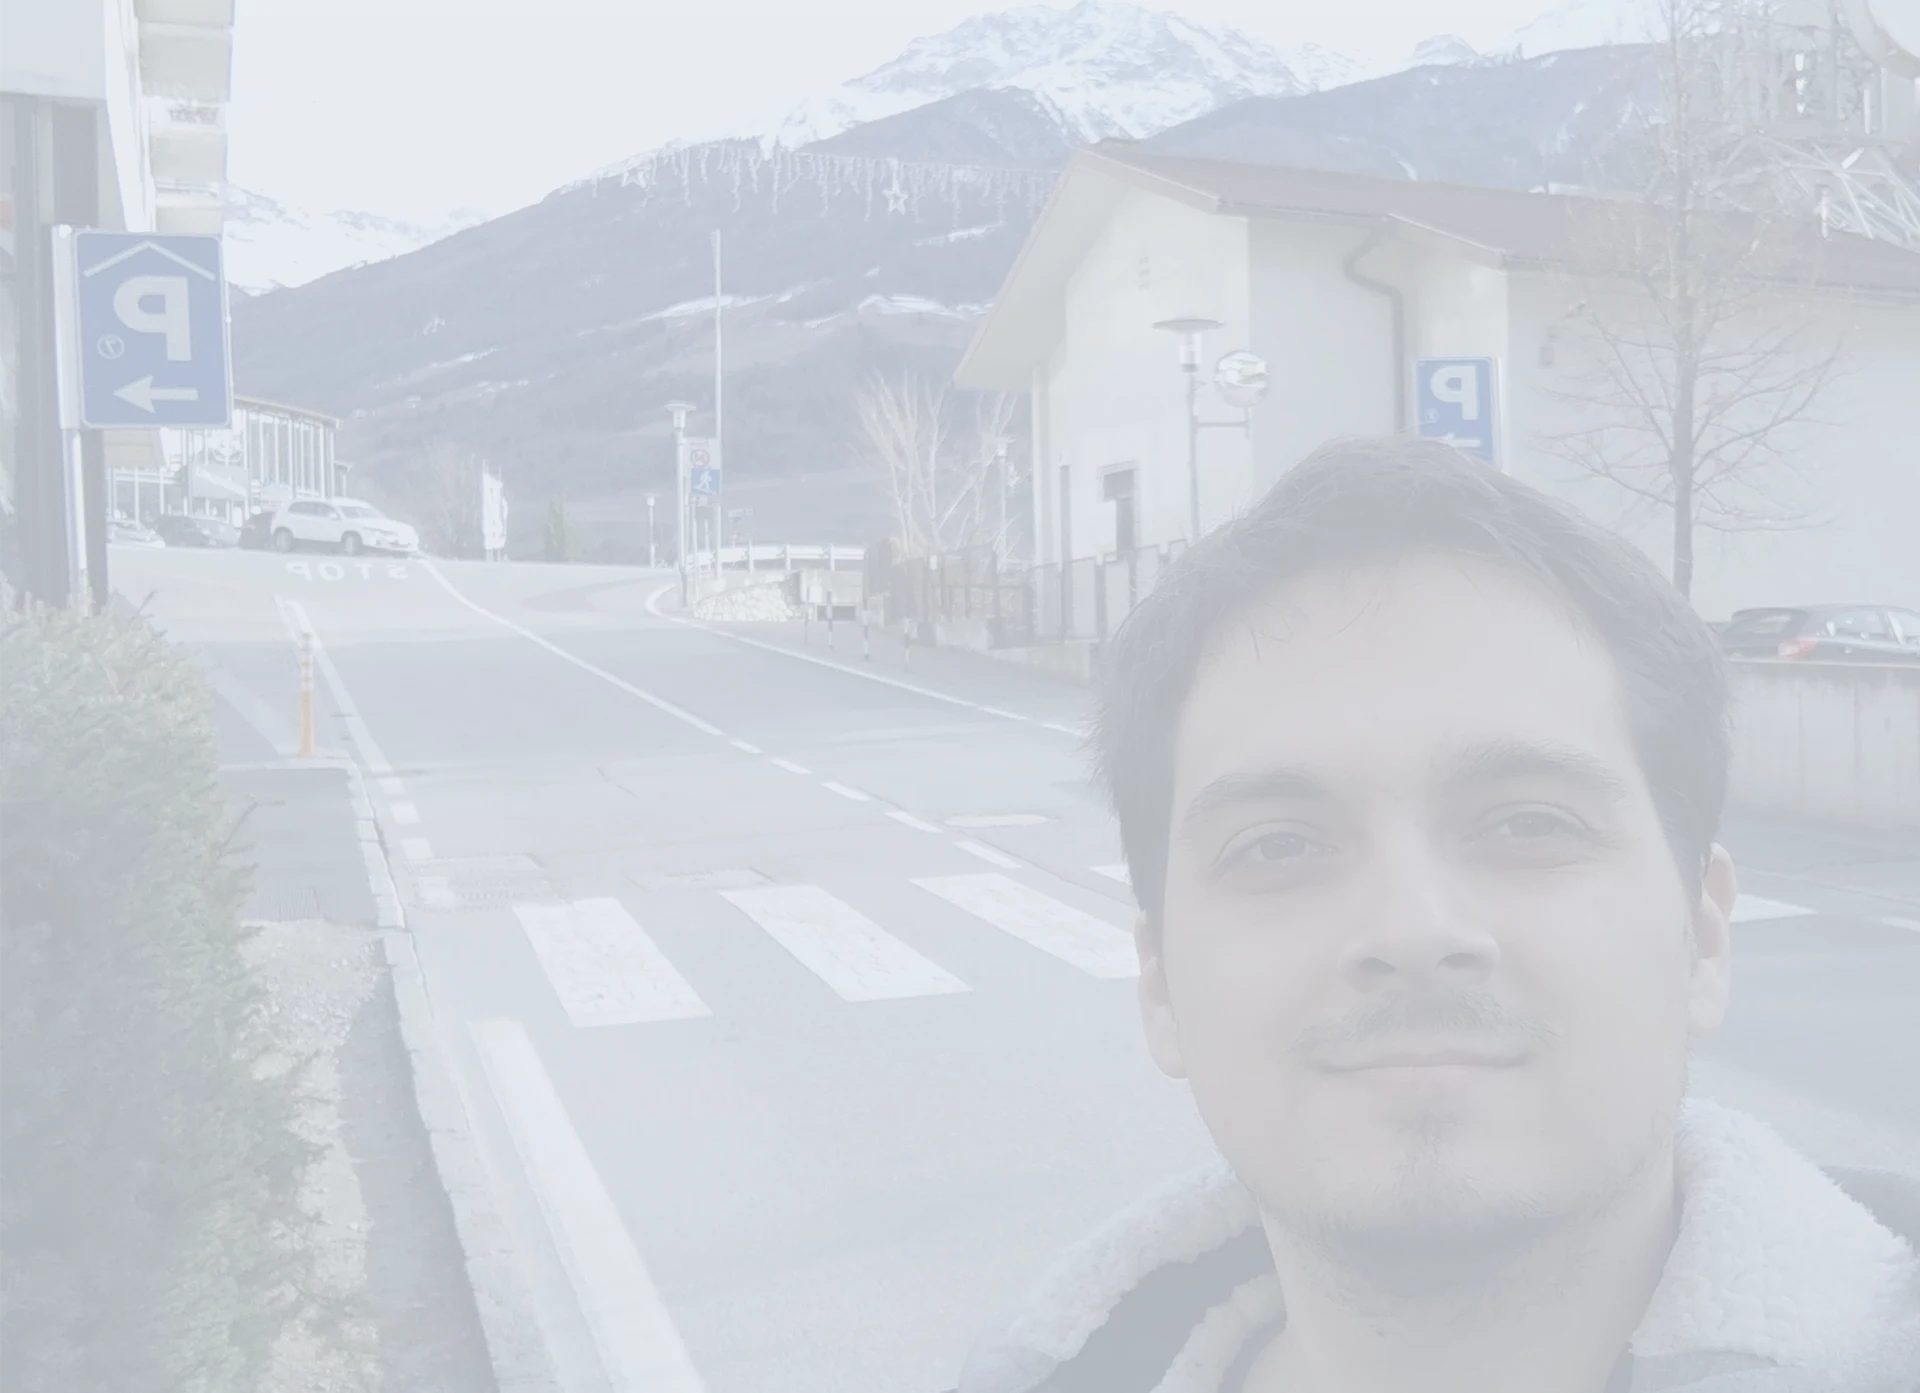
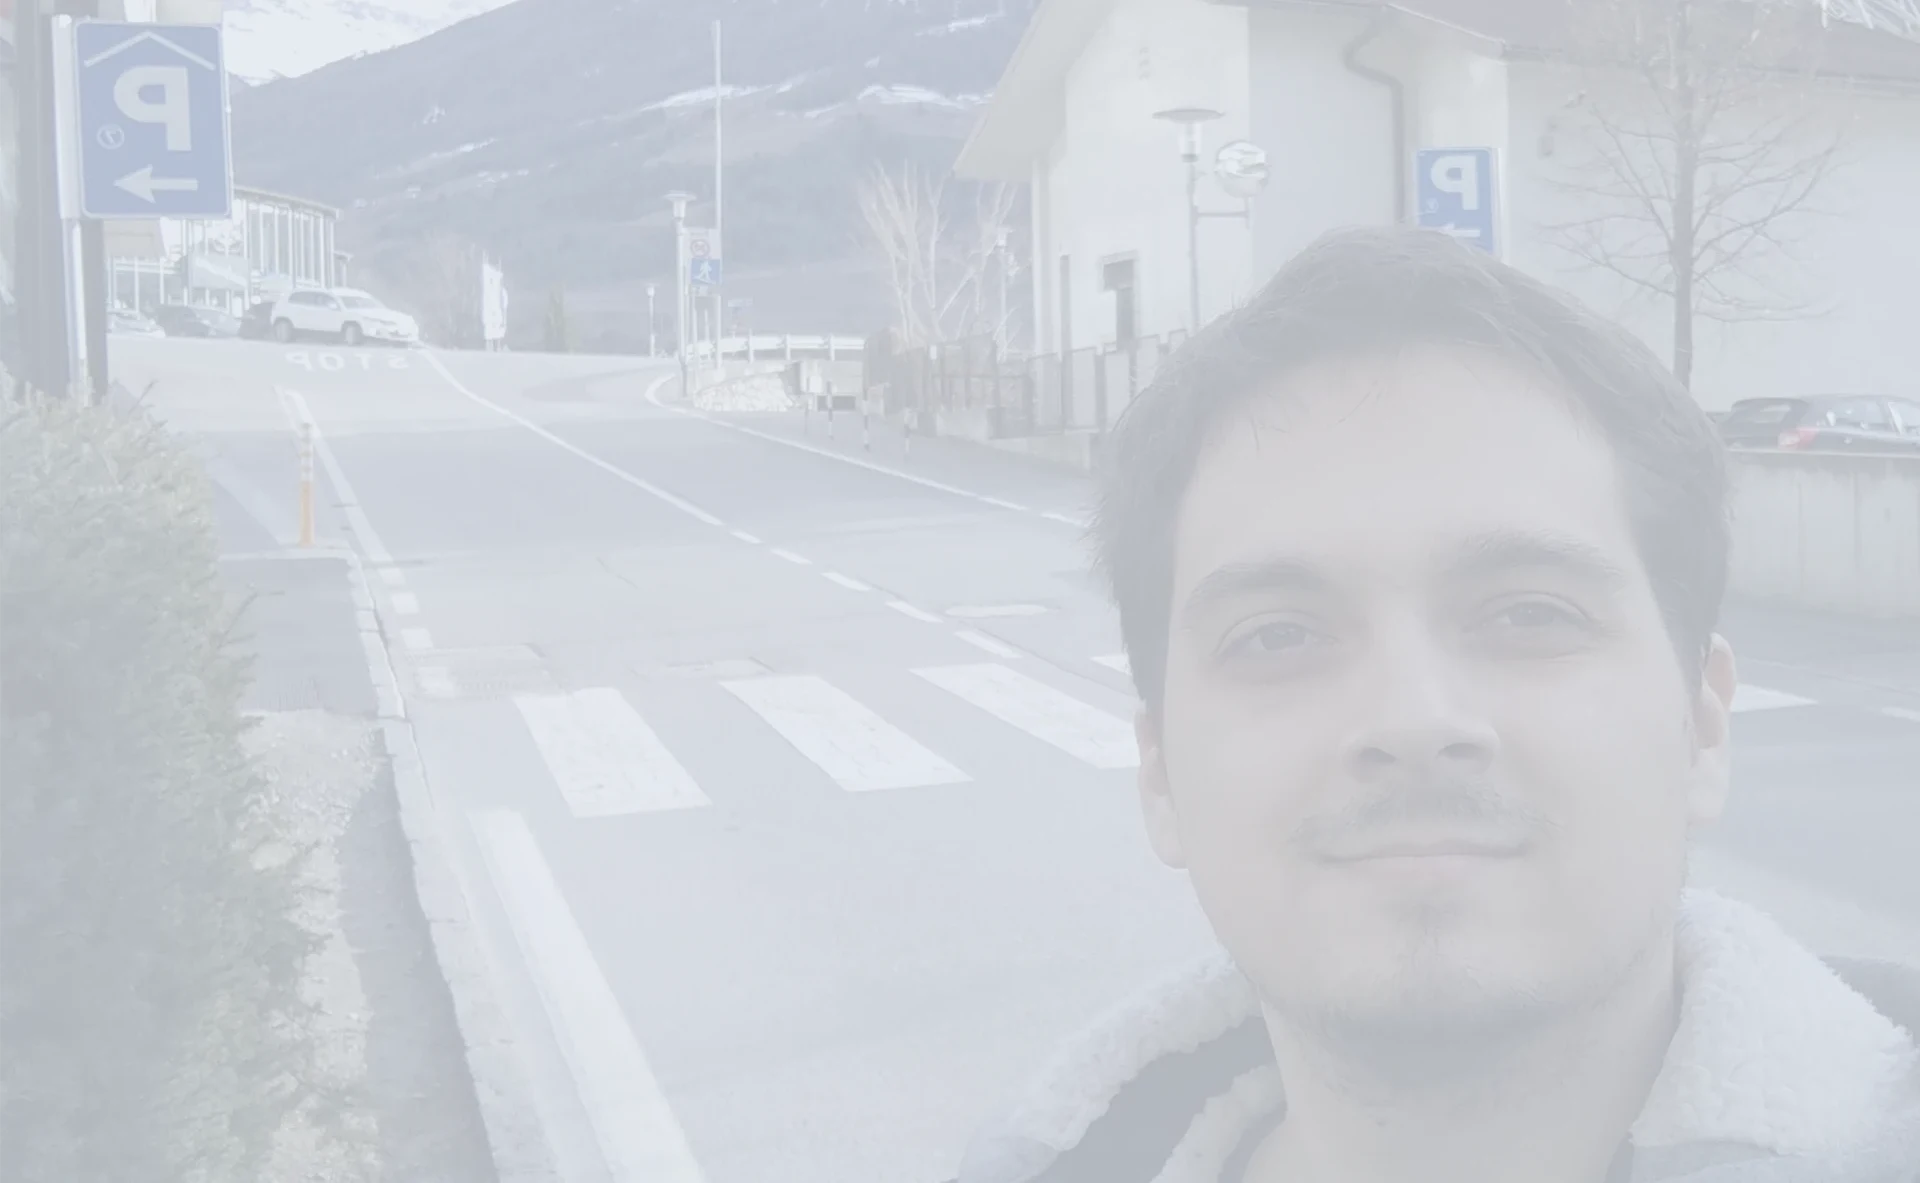
* all top panels are parallax

diff --git a/public/script.js b/public/script.js
@@ -7,6 +7,8 @@ const workLeftControl = workContainer.querySelector(".slider-controls .arrow-sid
 const workRightControl = workContainer.querySelector(".slider-controls .arrow-side-right");
 const works = workContainer.querySelectorAll(".work");
 const backToTopButton = document.querySelector(".back-to-top");
+const contactsContainer = document.getElementById("contacts");
+const headerContainer = document.getElementsByTagName("header")[0];
 
 // Settings
 const showScrollUpOnPx = 200;
@@ -63,25 +65,32 @@ const goToTop = () => {
     document.body.scrollIntoView();
   };
 
-document.addEventListener("scroll", () => {
-  let scrollContainer = GetScrollContainer();
-  let scrollBottom = scrollContainer.scrollTop + scrollContainer.clientHeight;
-  let workContainerEnd = workContainer.offsetTop + workContainer.offsetHeight;
-  const aspectRation = 1920 / 1080;
-  const shiftStrength = 9;
+document.addEventListener("DOMContentLoaded", getParallaxEffect(headerContainer, 1920 / 1100, 15));
+document.addEventListener("scroll", getParallaxEffect(headerContainer, 1920 / 1100, 15));
+document.addEventListener("scroll", getParallaxEffect(workContainer, 1920 / 1080, 9));
+document.addEventListener("scroll", getParallaxEffect(contactsContainer, 1920 / 1440, 9));
 
-  if (scrollBottom > workContainer.offsetTop && scrollContainer.scrollTop < workContainerEnd) {
-    let workScrollPercent = (scrollBottom - workContainer.offsetTop) / scrollContainer.clientHeight;
-    let realAspectRation = workContainer.offsetWidth / workContainer.offsetHeight;
-    let workScrollMax = realAspectRation > aspectRation ? (realAspectRation - aspectRation) * shiftStrength : 0;
-    
-    workContainer.style.backgroundPositionY = `-${workScrollPercent * workScrollMax}vw`;
+
+function getParallaxEffect(parallaxContainer, aspectRation, shiftStrength){
+  return () => {  
+    let scrollContainer = GetScrollContainer();
+    let scrollBottom = scrollContainer.scrollTop + scrollContainer.clientHeight;
+    let workContainerEnd = parallaxContainer.offsetTop + parallaxContainer.offsetHeight;
+
+    if (scrollBottom > parallaxContainer.offsetTop && scrollContainer.scrollTop < workContainerEnd) {
+
+      let workScrollPercent = (scrollBottom - parallaxContainer.offsetTop) / scrollContainer.clientHeight;
+      let realAspectRation = parallaxContainer.offsetWidth / parallaxContainer.offsetHeight;
+      let workScrollMax = realAspectRation > aspectRation ? (realAspectRation - aspectRation) * shiftStrength : 0;
+      
+      parallaxContainer.style.setProperty("background-position-y",`-${workScrollPercent * workScrollMax}vw`, "important" ) ;
+    }
+  
+    if (scrollContainer.scrollTop > showScrollUpOnPx)
+      backToTopButton.classList.remove("hidden");
+    else backToTopButton.classList.add("hidden");
   }
-
-  if (scrollContainer.scrollTop > showScrollUpOnPx)
-    backToTopButton.classList.remove("hidden");
-  else backToTopButton.classList.add("hidden");
-});
+}
 
 backToTopButton.addEventListener("click", goToTop);
 

diff --git a/public/style.css b/public/style.css
@@ -433,7 +433,7 @@ header {
 }
 
 #footer-text {
-    margin: 30% 0 0.5% 0 !important;
+    margin: 5% 0 0.5% 0 !important;
     font-size: 1.2rem !important;
 }
 
